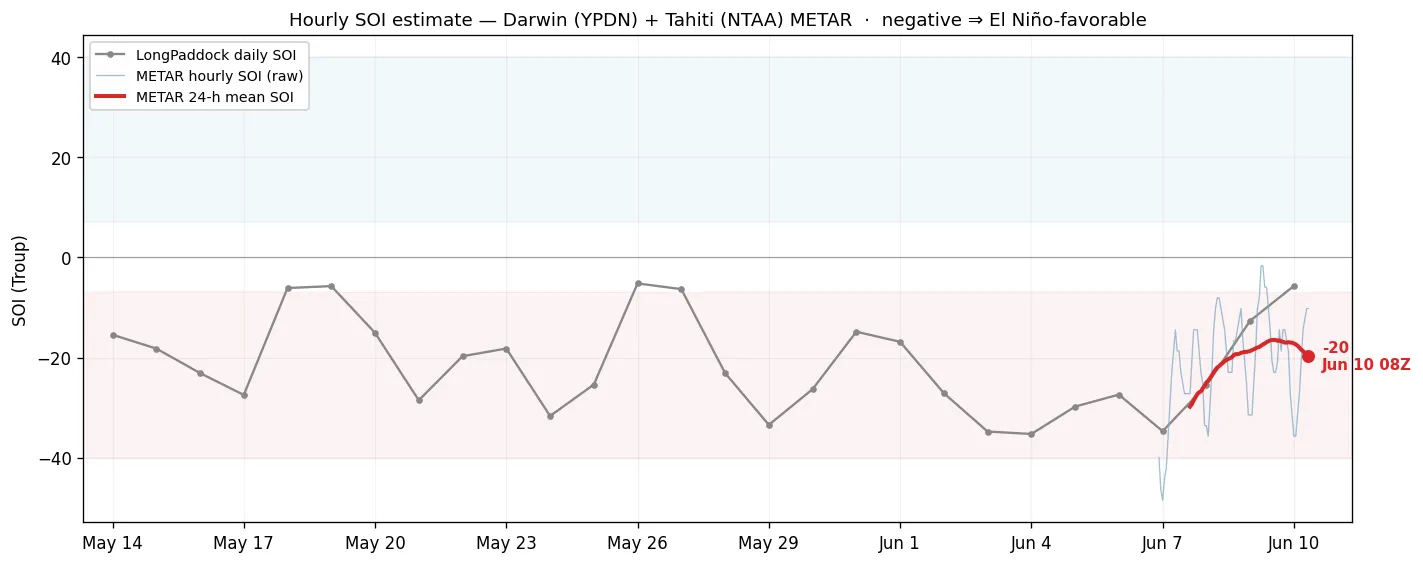
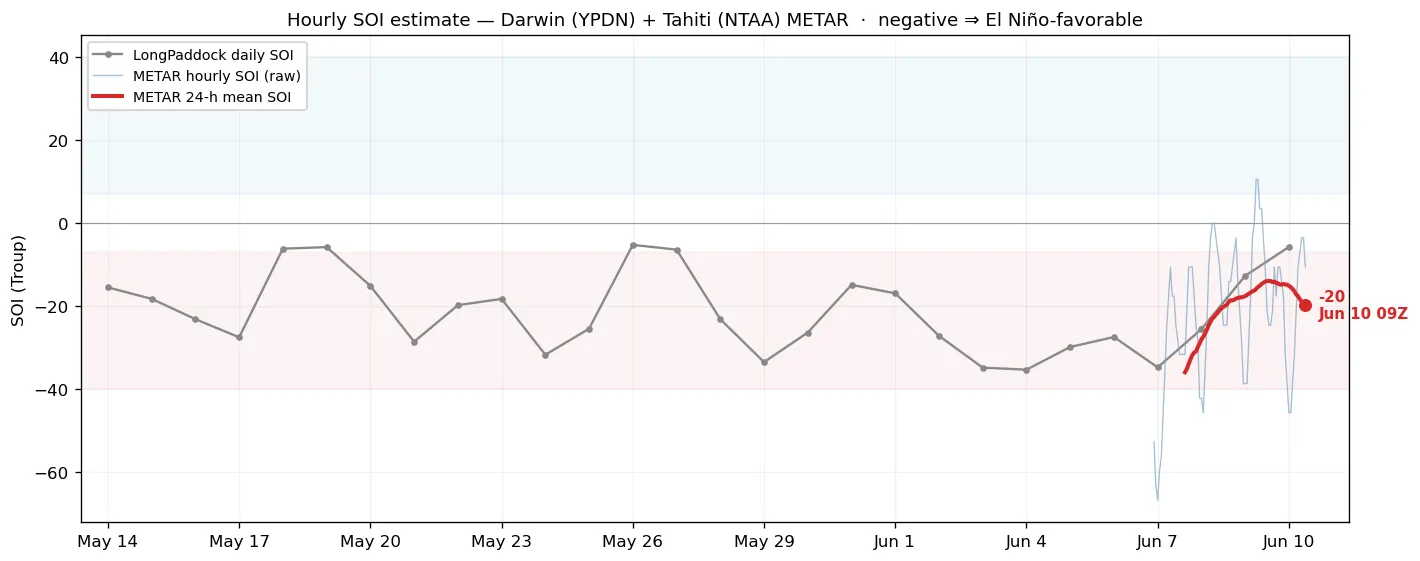
Hourly SOI: use exact base-period Troup normals + document the formula
The LongPaddock daily file carries 1991-present Tahiti/Darwin MSLP but standardises its SOI
on the 1887-1989 base period, so the sample mean/SD of the file's *daily* pressure difference
are not the Troup normals — the daily spread (~2.1-3.7 hPa) is far wider than the monthly
base-period SD (~1.3-2.1 hPa). Using the sample SD compressed our hourly SOI's amplitude by
~1.6×, a scale error a constant bias couldn't fix. Now we recover the exact monthly mean and SD
by a robust (Theil-Sen) regression of the published SOI on the file's own Tahiti-Darwin pressure
difference (SOI = 10·(diff-mean)/SD is linear in diff) — so the estimate sits on LongPaddock's
scale in both level and amplitude (residual bias drops to ~1.5). Adds the exact Troup formula to
the section blurb.

diff --git a/enso-analogs.html b/enso-analogs.html
@@ -259,7 +259,7 @@
         <h2>This Event vs. 1997, 2015 &amp; 2023</h2>
         <p>Niño-3.4 evolution (7-day running mean) through each event's development year and the next. Bold lines are <b>RONI</b> &mdash; the relative index (Niño-3.4 minus the 20&deg;S&ndash;20&deg;N tropical-mean anomaly), which removes the rising warming background so events decades apart are comparable; faint dotted lines are the raw <b>ONI</b> for reference. The current event is red. Note how 2015's record ONI shrinks toward 1997 once the background is removed.</p>
       </div>
-      <div class="img-wrap"><img src="assets/sst/events_nino34.webp?v=202606100935" alt="Niño-3.4 RONI vs ONI evolution: current event vs 1997/2015/2023" loading="lazy"></div>
+      <div class="img-wrap"><img src="assets/sst/events_nino34.webp?v=202606100940" alt="Niño-3.4 RONI vs ONI evolution: current event vs 1997/2015/2023" loading="lazy"></div>
       <div class="chart-card-footer"><span class="chart-sources">OISST v2.1 daily &middot; 7-day mean &middot; RONI = Niño-3.4 &minus; 20&deg;S&ndash;20&deg;N mean</span></div>
     </div>
 
@@ -269,7 +269,7 @@
         <h2>El Niño Flavor &mdash; Niño Regions vs. Analogs</h2>
         <p>Relative Niño-1+2 / 3 / 3.4 / 4 anomalies (7-day mean, each minus the 20&deg;S&ndash;20&deg;N tropical mean) at the same calendar day as the latest data, for the current event and the three analogs. Removing the tropical background makes the regions comparable across events; strong eastern (1+2, 3) relative to central (4) marks an East-Pacific-flavored event.</p>
       </div>
-      <div class="img-wrap"><img src="assets/sst/events_bars.webp?v=202606100935" alt="Relative Niño-region anomalies, current event vs analogs" loading="lazy"></div>
+      <div class="img-wrap"><img src="assets/sst/events_bars.webp?v=202606100940" alt="Relative Niño-region anomalies, current event vs analogs" loading="lazy"></div>
       <div class="chart-card-footer"><span class="chart-sources">OISST v2.1 daily &middot; 7-day mean &middot; relative to 20&deg;S&ndash;20&deg;N mean</span></div>
     </div>
 
@@ -279,7 +279,7 @@
         <h2>Matching-Phase SST Anomaly Maps</h2>
         <p>Relative SST anomaly &mdash; the area-weighted global-mean anomaly removed from each map &mdash; for the latest available week vs. the same calendar week in 1997, 2015 and 2023. Stripping the global mean removes the secular warming trend, so the ENSO spatial pattern is comparable across events that sat on very different baselines.</p>
       </div>
-      <div class="img-wrap"><img src="assets/sst/events_maps.webp?v=202606100935" alt="Matching-phase relative SST anomaly maps (global-mean removed)" loading="lazy"></div>
+      <div class="img-wrap"><img src="assets/sst/events_maps.webp?v=202606100940" alt="Matching-phase relative SST anomaly maps (global-mean removed)" loading="lazy"></div>
       <div class="chart-card-footer"><span class="chart-sources">OISST v2.1 daily &middot; 7-day mean &middot; global-mean removed</span></div>
     </div>
 
@@ -289,7 +289,7 @@
         <h2>Subsurface Heat Content vs. Analogs</h2>
         <p>Equatorial Pacific upper-ocean (0&ndash;300 m) temperature anomaly &mdash; a heat-content proxy that leads the surface &mdash; through each event's development year and the next, current (bold red) overlaid on 1997, 2015 and 2023. The subsurface warm reservoir is the fuel for El Ni&ntilde;o; watch whether the current build-up keeps pace with the analogs.</p>
       </div>
-      <div class="img-wrap"><img src="assets/sst/subsurface_events_hc.webp?v=202606100935" alt="Equatorial 0–300 m temperature-anomaly evolution: current vs 1997/2015/2023" loading="lazy"></div>
+      <div class="img-wrap"><img src="assets/sst/subsurface_events_hc.webp?v=202606100940" alt="Equatorial 0–300 m temperature-anomaly evolution: current vs 1997/2015/2023" loading="lazy"></div>
       <div class="chart-card-footer"><span class="chart-sources">NOAA/PMEL TAO/TRITON moorings &middot; anomaly vs 1991&ndash;2020 &middot; coverage varies by year</span></div>
     </div>
 
@@ -299,7 +299,7 @@
         <h2>Subsurface Heat Content vs. Analogs &mdash; De-trended</h2>
         <p>The same heat-content comparison with the 1991&ndash;2020 climate trend removed, so the four events sit on a common baseline. The net 0&ndash;300 m effect is modest &mdash; the subsurface warming and cooling trends largely cancel in the column average &mdash; but it eases the recent events (2023, current) down relative to 1997.</p>
       </div>
-      <div class="img-wrap"><img src="assets/sst/subsurface_events_hc_detrended.webp?v=202606100935" alt="Equatorial 0–300 m temperature-anomaly evolution, climate trend removed: current vs 1997/2015/2023" loading="lazy"></div>
+      <div class="img-wrap"><img src="assets/sst/subsurface_events_hc_detrended.webp?v=202606100940" alt="Equatorial 0–300 m temperature-anomaly evolution, climate trend removed: current vs 1997/2015/2023" loading="lazy"></div>
       <div class="chart-card-footer"><span class="chart-sources">NOAA/PMEL TAO/TRITON moorings &middot; de-trended 1991&ndash;2020 &middot; coverage varies by year</span></div>
     </div>
 
@@ -310,7 +310,7 @@
         <p>Equatorial depth&times;longitude temperature anomaly at the same phase (~the latest data week) of each event. The eastward-deepening warm anomaly along the thermocline is the classic El Ni&ntilde;o subsurface signature; comparing its depth and intensity against 1997/2015/2023 gauges how loaded the ocean is now.</p>
         <p><b>Note:</b> TAO mooring coverage varies by year (triangles mark moorings reporting), so 1997 and 2023 have missing longitudes.</p>
       </div>
-      <div class="img-wrap"><img src="assets/sst/subsurface_events_xsec.webp?v=202606100935" alt="Equatorial subsurface temperature-anomaly cross-sections: current vs 1997/2015/2023" loading="lazy"></div>
+      <div class="img-wrap"><img src="assets/sst/subsurface_events_xsec.webp?v=202606100940" alt="Equatorial subsurface temperature-anomaly cross-sections: current vs 1997/2015/2023" loading="lazy"></div>
       <div class="chart-card-footer"><span class="chart-sources">NOAA/PMEL TAO/TRITON moorings &middot; anomaly vs 1991&ndash;2020 &middot; 14-day mean &middot; coverage varies by year</span></div>
     </div>
 
@@ -321,7 +321,7 @@
         <p>The matching-phase cross-sections with the 1991&ndash;2020 climate trend removed. Because the trend has real depth&times;longitude structure &mdash; west-Pacific subsurface warming, eastern-thermocline cooling &mdash; de-trending reshapes the pattern more here than in the column-mean heat content above.</p>
         <p><b>Note:</b> TAO mooring coverage varies by year (triangles mark moorings reporting), so 1997 and 2023 have missing longitudes.</p>
       </div>
-      <div class="img-wrap"><img src="assets/sst/subsurface_events_xsec_detrended.webp?v=202606100935" alt="Equatorial subsurface temperature-anomaly cross-sections, climate trend removed: current vs 1997/2015/2023" loading="lazy"></div>
+      <div class="img-wrap"><img src="assets/sst/subsurface_events_xsec_detrended.webp?v=202606100940" alt="Equatorial subsurface temperature-anomaly cross-sections, climate trend removed: current vs 1997/2015/2023" loading="lazy"></div>
       <div class="chart-card-footer"><span class="chart-sources">NOAA/PMEL TAO/TRITON moorings &middot; de-trended 1991&ndash;2020 &middot; 14-day mean &middot; coverage varies by year</span></div>
     </div>
 
@@ -331,8 +331,8 @@
         <h2>Low-Level Wind vs. Analogs &mdash; 850 hPa Hovm&ouml;ller</h2>
         <p>Equatorial (5&deg;S&ndash;5&deg;N) 850 hPa zonal wind through the <b>developing year</b> (Jan&rarr;Nov of year 0) of each El Ni&ntilde;o, aligned by calendar so the current event sits beside its analogs at the same phase. Westerly anomalies (red) over the Indian Ocean&ndash;west Pacific push warm water east and sustain a developing event; the historical analogs show those westerlies expanding eastward through the year. Left: detrended anomaly (long-term trend removed). Right: absolute wind (easterly trades vs. westerly bursts). 5-day smoothed.</p>
       </div>
-      <div class="img-wrap"><img src="assets/sst/u850_analogs_anom.webp?v=202606100935" alt="850 hPa equatorial zonal-wind detrended-anomaly Hovmöllers: current 2026 vs 1982/1997/2015 developing years" loading="lazy"></div>
-      <div class="img-wrap"><img src="assets/sst/u850_analogs_abs.webp?v=202606100935" alt="850 hPa equatorial zonal-wind absolute Hovmöllers: current 2026 vs 1982/1997/2015 developing years" loading="lazy"></div>
+      <div class="img-wrap"><img src="assets/sst/u850_analogs_anom.webp?v=202606100940" alt="850 hPa equatorial zonal-wind detrended-anomaly Hovmöllers: current 2026 vs 1982/1997/2015 developing years" loading="lazy"></div>
+      <div class="img-wrap"><img src="assets/sst/u850_analogs_abs.webp?v=202606100940" alt="850 hPa equatorial zonal-wind absolute Hovmöllers: current 2026 vs 1982/1997/2015 developing years" loading="lazy"></div>
       <div class="chart-card-footer"><span class="chart-sources">ERA5 &mdash; WeatherBench2 1.5&deg; (1959&ndash;2023) + ARCO 0.25&deg; (current year) &middot; 5&deg;S&ndash;5&deg;N &middot; detrended vs day-of-year climatology &middot; updated daily</span></div>
     </div>
 

diff --git a/enso-atmosphere.html b/enso-atmosphere.html
@@ -268,7 +268,12 @@
       <div class="chart-card-header">
         <h2>Hourly SOI Estimate</h2>
         <p>The Southern Oscillation Index is a Troup standardisation of the Tahiti-minus-Darwin sea-level-pressure difference &mdash; published only monthly, and even LongPaddock's daily version lags 1&ndash;2 days. This estimates it in near-real time from the hourly QNH in the Darwin (YPDN) and Tahiti / Faa&rsquo;a (NTAA) airport METARs, updated hourly by a GitHub Action.</p>
-        <p><b>How to read it:</b> The grey line is the published LongPaddock daily SOI; the bold red line is our <b>24-hour-mean</b> estimate (the atmospheric tide and weather average out), bias-corrected onto the LongPaddock scale, which runs a day or two ahead of it. The faint blue line is the <b>raw hourly</b> SOI &mdash; very noisy (the semidiurnal pressure tide, passing weather, and 1-hPa METAR rounding), useful only as the live pulse. Negative ⇒ El&nbsp;Ni&ntilde;o-favorable.</p>
+        <p><b>The exact formula (Troup, 1965):</b></p>
+        <p style="text-align:center; font-size:1.08em; margin:.35em 0 .15em">
+          SOI = 10 &times; ( P<sub>diff</sub> &minus; <span style="border-top:1px solid; padding-top:1px">P<sub>diff</sub></span> ) &divide; &sigma;<sub>diff</sub>
+        </p>
+        <p style="font-size:.93em">where <b>P<sub>diff</sub></b> = mean-sea-level pressure at <b>Tahiti minus Darwin</b> (monthly mean), <b><span style="border-top:1px solid; padding-top:1px">P<sub>diff</sub></span></b> is the long-term average of that difference for the given <b>calendar month</b>, and <b>&sigma;<sub>diff</sub></b> its standard deviation &mdash; both taken over the <b>1887&ndash;1989</b> base period. The factor of 10 is Troup&rsquo;s scaling (so the index mostly falls within &plusmn;35). Crucially, &sigma;<sub>diff</sub> is the spread of <i>monthly</i> values (&asymp;1.3&ndash;2.1&nbsp;hPa), <i>not</i> the much wider day-to-day spread; we recover the exact monthly mean and &sigma; by regressing LongPaddock&rsquo;s published SOI against its own Tahiti&minus;Darwin pressure record, then apply them to the live METAR pressures.</p>
+        <p><b>How to read it:</b> The grey line is the published LongPaddock daily SOI; the bold red line is our <b>24-hour-mean</b> estimate (the atmospheric tide and weather average out), nudged onto the LongPaddock scale, which runs a day or two ahead of it. The faint blue line is the <b>raw hourly</b> SOI &mdash; very noisy (the semidiurnal pressure tide, passing weather, and 1-hPa METAR rounding), useful only as the live pulse. Negative ⇒ El&nbsp;Ni&ntilde;o-favorable.</p>
       </div>
       <div class="img-wrap"><img id="soi-hourly" data-src="assets/sst/soi_hourly.webp" alt="Hourly SOI estimate from Darwin and Tahiti METAR" loading="lazy"></div>
       <div class="chart-card-footer"><span class="chart-sources">Darwin (YPDN) + Tahiti (NTAA) METAR via aviationweather.gov &middot; Troup normals &amp; calibration from LongPaddock (BoM 1887&ndash;1989 base) &middot; updated hourly</span></div>
@@ -304,7 +309,7 @@
         <p>Forecast 10 m zonal-wind anomaly (5&deg;S&ndash;5&deg;N), longitude &times; forecast day, from the AIFS-ENS (AI) and ECMWF IFS-ENS (physics) ensemble means vs. the ERA5 1991&ndash;2020 climatology.</p>
         <p><b>What to look for:</b> Westerly (red) anomalies along the equator push warm water eastward and favor El Ni&ntilde;o development; easterly (blue) anomalies favor La Ni&ntilde;a. Agreement between the AI and physics ensembles raises confidence.</p>
       </div>
-      <div class="img-wrap"><img src="assets/sst/eq_wind_hovmoller.webp?v=202606100935" alt="Equatorial Pacific 10 m zonal-wind anomaly Hovmöller forecast (AIFS-ENS and IFS-ENS)" loading="lazy"></div>
+      <div class="img-wrap"><img src="assets/sst/eq_wind_hovmoller.webp?v=202606100940" alt="Equatorial Pacific 10 m zonal-wind anomaly Hovmöller forecast (AIFS-ENS and IFS-ENS)" loading="lazy"></div>
       <div class="chart-card-footer"><span class="chart-sources">ECMWF AIFS-ENS &amp; IFS-ENS (open data) &middot; anomaly vs ERA5 1991&ndash;2020 &middot; updated each 00/12Z cycle</span></div>
     </div>
 
@@ -328,7 +333,7 @@
         <p><b>How to read it:</b> <i>top</i> &mdash; this year's observed AAM (black) and the 15-day forecast (red) on the climatological annual cycle. The hemispheres are strongly out of phase (each peaks in its own winter), so much of the absolute rise/fall is just the season. <i>Bottom</i> &mdash; the anomaly (departure from the 1991&ndash;2020 normal), which removes the seasonal cycle, with a &ldquo;% of climatology&rdquo; axis.</p>
         <p><b>Why it matters for ENSO:</b> El&nbsp;Ni&ntilde;o shifts tropical convection east, strengthens the subtropical jets and weakens the trade winds &mdash; so the atmosphere holds <b>more</b> westerly momentum. AAM also ties to the MJO / Global Wind Oscillation and to <b>length of day</b> (more atmospheric momentum &rarr; the solid Earth spins fractionally slower).</p>
       </div>
-      <div class="img-wrap"><img src="assets/sst/aam.webp?v=202606100935" alt="Global and hemispheric atmospheric angular momentum: observed + AIFS-ENS forecast, absolute and anomaly" loading="lazy"></div>
+      <div class="img-wrap"><img src="assets/sst/aam.webp?v=202606100940" alt="Global and hemispheric atmospheric angular momentum: observed + AIFS-ENS forecast, absolute and anomaly" loading="lazy"></div>
       <div class="chart-card-footer"><span class="chart-sources">Forecast: ECMWF AIFS-ENS (open data, CC BY 4.0) &middot; climatology &amp; this-year observed: ERA5 (Copernicus C3S / ECMWF) &middot; updated daily</span></div>
     </div>
 
@@ -337,7 +342,7 @@
       <div class="chart-card-header">
         <h2>AAM Forecast Trend (run-to-run)</h2>
       </div>
-      <div class="img-wrap"><img src="assets/sst/aam_trend.webp?v=202606100935" alt="Run-to-run trend of AIFS-ENS ensemble-mean AAM anomaly forecasts, global and hemispheric" loading="lazy"></div>
+      <div class="img-wrap"><img src="assets/sst/aam_trend.webp?v=202606100940" alt="Run-to-run trend of AIFS-ENS ensemble-mean AAM anomaly forecasts, global and hemispheric" loading="lazy"></div>
       <div class="chart-card-footer"><span class="chart-sources">ECMWF AIFS-ENS (open data, CC BY 4.0) &middot; anomaly vs ERA5 1991&ndash;2020 (Copernicus C3S) &middot; archived each cycle</span></div>
     </div>
 
@@ -352,10 +357,10 @@
       </div>
       <iframe class="anim-embed torque" src="sst_anim.html?embed=1&amp;manifest=torque_manifest.json&amp;region=torque"
               title="AAM surface-torque anomaly animation (friction + mountain) over the AIFS-ENS forecast" loading="lazy"></iframe>
-      <div class="img-wrap"><img src="assets/sst/torque_timeseries.webp?v=202606100935" alt="Hemispheric AAM torque budget time series (friction, mountain, sum) for NH and SH" loading="lazy"></div>
-      <div class="img-wrap"><img src="assets/sst/torque_ranges.webp?v=202606100935" alt="Mountain-torque anomaly broken down by range (Himalaya, Rockies, Andes, Greenland, Antarctica, Alps)" loading="lazy"></div>
-      <div class="img-wrap"><img src="assets/sst/torque_seasonal.webp?v=202606100935" alt="Seasonal cycle of the three AAM surface-torque terms (friction, mountain, GWD) by latitude, ERA5 1991-2020" loading="lazy"></div>
-      <div class="img-wrap"><img src="assets/sst/torque_seasonal_ts.webp?v=202606100935" alt="Seasonal cycle of the integrated AAM torque terms (friction, mountain, GWD, sum) for Global/NH/SH, ERA5 1991-2020" loading="lazy"></div>
+      <div class="img-wrap"><img src="assets/sst/torque_timeseries.webp?v=202606100940" alt="Hemispheric AAM torque budget time series (friction, mountain, sum) for NH and SH" loading="lazy"></div>
+      <div class="img-wrap"><img src="assets/sst/torque_ranges.webp?v=202606100940" alt="Mountain-torque anomaly broken down by range (Himalaya, Rockies, Andes, Greenland, Antarctica, Alps)" loading="lazy"></div>
+      <div class="img-wrap"><img src="assets/sst/torque_seasonal.webp?v=202606100940" alt="Seasonal cycle of the three AAM surface-torque terms (friction, mountain, GWD) by latitude, ERA5 1991-2020" loading="lazy"></div>
+      <div class="img-wrap"><img src="assets/sst/torque_seasonal_ts.webp?v=202606100940" alt="Seasonal cycle of the integrated AAM torque terms (friction, mountain, GWD, sum) for Global/NH/SH, ERA5 1991-2020" loading="lazy"></div>
       <div class="chart-card-footer"><span class="chart-sources">ECMWF AIFS-ENS surface pressure (open data, CC BY 4.0) &middot; ERA5 orography + 1991–2020 torque climatology (Copernicus C3S, seasonal-cycle panel) &middot; daily means &middot; updated daily</span></div>
     </div>
 

diff --git a/sst.html b/sst.html
@@ -321,7 +321,7 @@
         <p><b>How to read it:</b> Red bars (positive) lean El Ni&ntilde;o, blue bars (negative) lean La Ni&ntilde;a; the dashed lines mark the &plusmn;0.5&deg;C guides. This index is computed directly from OISST and shown in &deg;C &mdash; it captures the shape and timing of CPC's RONI but is not their standardized published value.</p>
       </div>
       <div class="img-wrap">
-        <img src="assets/sst/roni.webp?v=202606100935"
+        <img src="assets/sst/roni.webp?v=202606100940"
              alt="Relative Oceanic Niño Index time series" loading="lazy">
       </div>
       <div class="chart-card-footer">
@@ -338,7 +338,7 @@
         <p><b>What to look for:</b> When the red (Ni&ntilde;o-3.4) and green (tropical-mean) lines move together, the blue relative line stays flat &mdash; that's background warming, not ENSO. The blue line separating from zero is the genuine ENSO signal.</p>
       </div>
       <div class="img-wrap">
-        <img src="assets/sst/daily_indices.webp?v=202606100935"
+        <img src="assets/sst/daily_indices.webp?v=202606100940"
              alt="Daily Niño-3.4, tropical-mean, and relative SST indices" loading="lazy">
       </div>
       <div class="chart-card-footer">
@@ -355,22 +355,22 @@
         <p><b>How to read it:</b> The grey steps are the official bimonthly MEI.v2; the red line is our daily estimate, which leads the official value by roughly five weeks. The shaded band is the &plusmn;0.30 leave-one-year-out cross-validation error &mdash; the honest out-of-sample skill (the fit reproduces MEI.v2 at R&nbsp;=&nbsp;0.94). <b>Caveat:</b> the model is SST-weighted, so during a fast <i>SST-led</i> transition it can run ahead of MEI's slower atmospheric components &mdash; read a rapidly-rising live value as direction-and-timing rather than exact magnitude.</p>
       </div>
       <div class="img-wrap">
-        <img src="assets/sst/mei/mei_nowcast.webp?v=202606100935"
+        <img src="assets/sst/mei/mei_nowcast.webp?v=202606100940"
              alt="Daily nowcast of the Multivariate ENSO Index version 2" loading="lazy">
       </div>
       <div class="img-wrap">
         <p class="img-label">Onset-year analogs &mdash; is the current year tracking the big El Ni&ntilde;os?</p>
-        <img src="assets/sst/mei/mei_analogs.webp?v=202606100935"
+        <img src="assets/sst/mei/mei_analogs.webp?v=202606100940"
              alt="MEI.v2 onset-year analogs: 1982, 1997, 2015, 2023 vs the current nowcast" loading="lazy">
       </div>
       <div class="img-wrap">
         <p class="img-label">Full record since 1980</p>
-        <img src="assets/sst/mei/mei_history.webp?v=202606100935"
+        <img src="assets/sst/mei/mei_history.webp?v=202606100940"
              alt="Full Multivariate ENSO Index v2 record since 1980 with the live nowcast tail" loading="lazy">
       </div>
       <div class="img-wrap">
         <p class="img-label">Out-of-sample skill &mdash; the 2015&ndash;16 El Ni&ntilde;o</p>
-        <img src="assets/sst/mei/mei_validation.webp?v=202606100935"
+        <img src="assets/sst/mei/mei_validation.webp?v=202606100940"
              alt="Validation of the MEI.v2 nowcast over the 2015-16 El Niño" loading="lazy">
       </div>
       <div class="chart-card-footer">

diff --git a/scripts/sst/pages/atmosphere.html b/scripts/sst/pages/atmosphere.html
@@ -21,7 +21,12 @@
       <div class="chart-card-header">
         <h2>Hourly SOI Estimate</h2>
         <p>The Southern Oscillation Index is a Troup standardisation of the Tahiti-minus-Darwin sea-level-pressure difference &mdash; published only monthly, and even LongPaddock's daily version lags 1&ndash;2 days. This estimates it in near-real time from the hourly QNH in the Darwin (YPDN) and Tahiti / Faa&rsquo;a (NTAA) airport METARs, updated hourly by a GitHub Action.</p>
-        <p><b>How to read it:</b> The grey line is the published LongPaddock daily SOI; the bold red line is our <b>24-hour-mean</b> estimate (the atmospheric tide and weather average out), bias-corrected onto the LongPaddock scale, which runs a day or two ahead of it. The faint blue line is the <b>raw hourly</b> SOI &mdash; very noisy (the semidiurnal pressure tide, passing weather, and 1-hPa METAR rounding), useful only as the live pulse. Negative ⇒ El&nbsp;Ni&ntilde;o-favorable.</p>
+        <p><b>The exact formula (Troup, 1965):</b></p>
+        <p style="text-align:center; font-size:1.08em; margin:.35em 0 .15em">
+          SOI = 10 &times; ( P<sub>diff</sub> &minus; <span style="border-top:1px solid; padding-top:1px">P<sub>diff</sub></span> ) &divide; &sigma;<sub>diff</sub>
+        </p>
+        <p style="font-size:.93em">where <b>P<sub>diff</sub></b> = mean-sea-level pressure at <b>Tahiti minus Darwin</b> (monthly mean), <b><span style="border-top:1px solid; padding-top:1px">P<sub>diff</sub></span></b> is the long-term average of that difference for the given <b>calendar month</b>, and <b>&sigma;<sub>diff</sub></b> its standard deviation &mdash; both taken over the <b>1887&ndash;1989</b> base period. The factor of 10 is Troup&rsquo;s scaling (so the index mostly falls within &plusmn;35). Crucially, &sigma;<sub>diff</sub> is the spread of <i>monthly</i> values (&asymp;1.3&ndash;2.1&nbsp;hPa), <i>not</i> the much wider day-to-day spread; we recover the exact monthly mean and &sigma; by regressing LongPaddock&rsquo;s published SOI against its own Tahiti&minus;Darwin pressure record, then apply them to the live METAR pressures.</p>
+        <p><b>How to read it:</b> The grey line is the published LongPaddock daily SOI; the bold red line is our <b>24-hour-mean</b> estimate (the atmospheric tide and weather average out), nudged onto the LongPaddock scale, which runs a day or two ahead of it. The faint blue line is the <b>raw hourly</b> SOI &mdash; very noisy (the semidiurnal pressure tide, passing weather, and 1-hPa METAR rounding), useful only as the live pulse. Negative ⇒ El&nbsp;Ni&ntilde;o-favorable.</p>
       </div>
       <div class="img-wrap"><img id="soi-hourly" data-src="assets/sst/soi_hourly.webp" alt="Hourly SOI estimate from Darwin and Tahiti METAR" loading="lazy"></div>
       <div class="chart-card-footer"><span class="chart-sources">Darwin (YPDN) + Tahiti (NTAA) METAR via aviationweather.gov &middot; Troup normals &amp; calibration from LongPaddock (BoM 1887&ndash;1989 base) &middot; updated hourly</span></div>

diff --git a/enso-forecasts.html b/enso-forecasts.html
@@ -260,7 +260,7 @@
         <p>Ni&ntilde;o-3.4 SST-anomaly forecast plume from the GEM-NEMO component of Environment Canada's CanSIPS seasonal system (ensemble members 1&ndash;20), out ~11 months. <b>Traditional</b> (left) is the Ni&ntilde;o-3.4 anomaly vs the model's own 1991&ndash;2020 hindcast climatology; <b>relative</b> (right) subtracts the 20&deg;S&ndash;20&deg;N tropical-mean anomaly (RONI-style). Using the model's hindcast climatology removes its drift/bias.</p>
         <p>Bold red is the current issue's ensemble mean (thin red = members); dashed grey is <b>last month's</b> forecast (with its 10&ndash;90% spread) &mdash; where they overlap you can see how the outlook is trending month-to-month.</p>
       </div>
-      <div class="img-wrap"><img src="assets/sst/cansips_nino34.webp?v=202606100935" alt="CanSIPS GEM-NEMO Niño-3.4 forecast plume (traditional + relative), current vs previous issue" loading="lazy"></div>
+      <div class="img-wrap"><img src="assets/sst/cansips_nino34.webp?v=202606100940" alt="CanSIPS GEM-NEMO Niño-3.4 forecast plume (traditional + relative), current vs previous issue" loading="lazy"></div>
       <div class="chart-card-footer"><span class="chart-sources">ECCC CanSIPS GEM-NEMO (datamart) &middot; anomaly vs 1991&ndash;2020 model hindcast &middot; updated monthly</span></div>
     </div>
 
@@ -271,7 +271,7 @@
         <p>The Troup SOI (the standardized Tahiti&minus;Darwin sea-level-pressure difference) tracks the atmospheric side of ENSO. Observed values are from LongPaddock (Queensland Govt / BoM); the forecast is the Tahiti&minus;Darwin MSL from the combined AIFS-ENS + IFS-ENS ensemble (~100 members), bias-corrected to the recent observed level. Bold lines are the 30-day running SOI; the faint daily series and shaded 10&ndash;90% band show the noisier day-to-day spread.</p>
         <p><b>How to read it:</b> Sustained <b>negative</b> SOI (below &minus;7) is El Ni&ntilde;o-favorable; sustained <b>positive</b> (above +7) is La Ni&ntilde;a-favorable. A forecast that holds the 30-day SOI deep negative reinforces an El Ni&ntilde;o signal.</p>
       </div>
-      <div class="img-wrap"><img src="assets/sst/soi_forecast.webp?v=202606100935" alt="Southern Oscillation Index: observed (LongPaddock/BoM) plus AIFS-ENS/IFS-ENS forecast" loading="lazy"></div>
+      <div class="img-wrap"><img src="assets/sst/soi_forecast.webp?v=202606100940" alt="Southern Oscillation Index: observed (LongPaddock/BoM) plus AIFS-ENS/IFS-ENS forecast" loading="lazy"></div>
       <div class="chart-card-footer"><span class="chart-sources">LongPaddock daily SOI (BoM, 1933&ndash;1992 base) &middot; forecast: ECMWF AIFS-ENS + IFS-ENS MSL &middot; updated each 00/12Z cycle</span></div>
     </div>
 

diff --git a/scripts/sst/hourly_soi.py b/scripts/sst/hourly_soi.py
@@ -76,17 +76,28 @@ def update_history(new: pd.DataFrame) -> pd.DataFrame:
 
 # ------------------------------------------------------------------- LongPaddock SOI
 def longpaddock():
-    """LongPaddock daily SOI (1887-1989 base): DataFrame[date]→SOI plus Troup normals."""
+    """LongPaddock daily SOI (1887-1989 base): DataFrame[date]→SOI plus Troup normals.
+
+    The file carries daily Tahiti/Darwin MSLP (1991-present) but its SOI is standardised on the
+    1887-1989 base period — so the *sample* mean/SD of the file's daily pressure difference are
+    NOT the Troup normals (the daily spread is far wider than the monthly base-period SD). We
+    instead recover the exact normals by inverting the formula: SOI = 10·(diff−mean)/SD is linear
+    in diff, so a robust (Theil-Sen) regression of the published SOI on the file's own pressure
+    difference, per calendar month, returns SD = 10/slope and mean = −intercept/slope."""
+    from scipy.stats import theilslopes
     txt = urllib.request.urlopen(SOI_URL, timeout=60).read().decode()
     df = pd.read_csv(io.StringIO(txt), sep=r"\s+")
     df["date"] = pd.to_datetime(df["Year"].astype(int).astype(str), format="%Y") + \
         pd.to_timedelta(df["Day"].astype(int) - 1, unit="D")
     df = df.set_index("date").sort_index()
     df["diff"] = df["Tahiti"] - df["Darwin"]
-    # Troup normals: per calendar month, mean and SD of the (MSLP) pressure difference
-    g = df.dropna(subset=["diff"])
-    normals = {m: (sub["diff"].mean(), sub["diff"].std())
-               for m, sub in g.groupby(g.index.month)}
+    g = df.replace([np.inf, -np.inf], np.nan).dropna(subset=["diff", "SOI"])
+    normals = {}
+    for m, sub in g.groupby(g.index.month):
+        if len(sub) < 30:
+            continue
+        slope, intercept, _, _ = theilslopes(sub["SOI"].values, sub["diff"].values)  # SOI = slope·diff + intercept
+        normals[m] = (-intercept / slope, 10.0 / slope)                              # (mean, SD) in hPa
     return df["SOI"], normals
 
 
